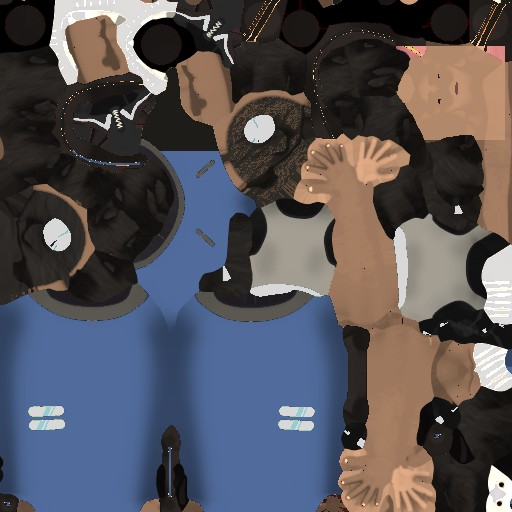
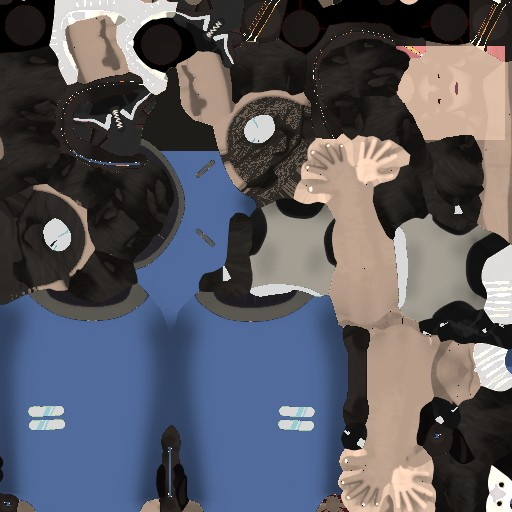
Male hero restyled (layered hair, paisley open shirt), real heights 160/178/175 cm, light skin for every character
Claude-Session: https://claude.ai/code/session_019W2sJmQtr8xcLscBKLvp9p

diff --git a/index.html b/index.html
@@ -1758,7 +1758,7 @@ class Avatar {
         o.castShadow = true; o.receiveShadow = true; o.frustumCulled = false;
         const nm = o.material && o.material.name, t = tint[nm];
         if (t !== undefined){ o.material = o.material.clone(); o.material.userData = {}; o.material.color.set(t); }
-        if (/Skin|Body/.test(nm)) skinPatch(o.material); else if (/Outfit|Headwear/.test(nm)) clothPatch(o.material, .6); else if (/Beard|Hair/.test(nm)) hairPatch(o.material);
+        if (/Skin|Body/.test(nm)){ skinPatch(o.material); if (nm !== 'Fem_Body') lightSkin(o.material); } else if (/Outfit|Headwear/.test(nm)) clothPatch(o.material, .6); else if (/Beard|Hair/.test(nm)) hairPatch(o.material);
       }
     });
     this.root.add(this.model);
@@ -1929,15 +1929,20 @@ function femHair(v, col){
   }
   return g;
 }
-function attachAtBind(model, boneRe, obj, at){   // place obj at a bind-pose model-space point, then parent it to the bone
-  let bone = null; model.traverse(o => { if (o.isBone && boneRe.test(o.name)) bone = o; }); if (!bone) return;
+function attachAtBind(model, boneRe, obj, at, useBind = true){   // place obj at a bind-pose model-space point (taken from the skin's inverse bind matrices), parented to the bone
+  let bone = null, sm = null, bi = -1; model.traverse(o => { if (o.isBone && boneRe.test(o.name)) bone = o; });
+  if (!bone) return;
+  if (useBind) model.traverse(o => { if (!sm && o.isSkinnedMesh){ const i = o.skeleton.bones.indexOf(bone); if (i >= 0){ sm = o; bi = i; } } });
   model.updateMatrixWorld(true);
-  const m = new THREE.Matrix4().copy(bone.matrixWorld).invert().multiply(model.matrixWorld).multiply(new THREE.Matrix4().makeTranslation(at.x, at.y, at.z));
+  const toModel = new THREE.Matrix4().copy(model.matrixWorld).invert(), bindBone = new THREE.Matrix4();
+  if (sm){ const meshInModel = new THREE.Matrix4().multiplyMatrices(toModel, sm.matrixWorld); bindBone.copy(sm.skeleton.boneInverses[bi]).invert().premultiply(meshInModel); }
+  else bindBone.multiplyMatrices(toModel, bone.matrixWorld);
+  const m = bindBone.invert().multiply(new THREE.Matrix4().makeTranslation(at.x, at.y, at.z));
   m.decompose(obj.position, obj.quaternion, obj.scale); bone.add(obj);
 }
 function femAvatar(k, v){
   const V = FEM_V[v] || FEM_V.mom, av = new Avatar(femSrc, femClips, {}); av.model.scale.multiplyScalar(k); av.k = k;
-  const C = c => new THREE.Color(c), U2 = { uTop:{ value:C(V.top) }, uInner:{ value:C(V.inner) }, uShorts:{ value:C(V.shorts) }, uSkinC:{ value:C(0xd6a383) } };
+  const C = c => new THREE.Color(c), U2 = { uTop:{ value:C(V.top) }, uInner:{ value:C(V.inner) }, uShorts:{ value:C(V.shorts) }, uSkinC:{ value:C(0xf5d3bb) } };
   av.model.traverse(o => {
     if (!o.isMesh) return;
     o.geometry = femGeom(o.geometry, V);
@@ -1961,13 +1966,106 @@ function femAvatar(k, v){
           else paint = false;
           if (paint) diffuseColor.rgb = col; }`); });
   });
-  attachAtBind(av.model, /Head$/, femHair(v, V.hair), new THREE.Vector3(0, 1.468, -.01));
+  attachAtBind(av.model, /Head$/, femHair(v, V.hair), new THREE.Vector3(0, 1.468, -.01), false);
   av.fem = true; return av;
+}
+/* light skin for the stock avatar: keep the texture's shading and the relative tint of lips/cheeks, move the tone */
+function lightSkin(m){
+  if (m.userData.light) return m; m.userData.light = true;
+  return patchMat(m, 'lightSkin', sh => { sh.fragmentShader = sh.fragmentShader.replace('#include <map_fragment>', `#include <map_fragment>
+    { vec3 c = diffuseColor.rgb, avg = vec3(0.42, 0.19, 0.168); float l = dot(c, vec3(0.3, 0.59, 0.11)), la = 0.256;
+      vec3 tint = pow(max(c/max(l, 1e-4), 1e-4)/(avg/la), vec3(0.7));
+      diffuseColor.rgb = min(vec3(0.76, 0.5, 0.38)*pow(max(l/la, 0.0), 0.65)*tint, vec3(1.0)); }`); });
+}
+/* the man: 178 cm, layered black hair with soft bangs, an open ivory short-sleeve shirt with a red paisley print over a white crew-neck tee,
+   indigo jeans, white trainers. Painted in the avatar's bind pose (metres), so the print and the sleeves stay put while it moves */
+function styleMale(av){
+  const k = 1.78/1.835; av.model.scale.multiplyScalar(k); av.k = k;
+  av.model.updateMatrixWorld(true);
+  const toModel = new THREE.Matrix4().copy(av.model.matrixWorld).invert(), skin = new THREE.Color(0xf3cfb6);
+  av.model.traverse(o => {
+    if (!o.isMesh) return; const nm = o.material.name;
+    if (nm === 'Wolf3D_Headwear' || nm === 'Wolf3D_Beard'){ o.visible = false; return; }
+    if (!/Outfit/.test(nm)) return;
+    const m = o.material = o.material.clone(); m.userData = {}; m.name = nm; m.map = null; m.color.set(0xffffff);
+    const U = { uBind:{ value:new THREE.Matrix4().multiplyMatrices(toModel, o.matrixWorld) }, uSkinM:{ value:skin } };
+    clothPatch(m, .55);
+    let body = '';
+    if (nm === 'Wolf3D_Outfit_Top'){ m.roughness = .82; m.normalMap = null; body = `
+      float ax = abs(p.x); bool front = p.z > 0.035;
+      if (p.y < 0.9) discard;
+      if (abs(p.x) < 0.065 && p.y > 1.49 && p.y < 1.6 && p.z > 0.068) discard;   // the stock bow tie
+      vec3 col = vec3(0.92, 0.87, 0.76);
+      vec2 uv = vec2(p.x + p.z*0.8, p.y)*26.0; vec2 id = floor(uv); float h = fract(sin(dot(id, vec2(12.9898, 78.233)))*43758.5453);
+      vec2 q = fract(uv) - 0.5 + (vec2(h, fract(h*7.13)) - 0.5)*0.25; float a = h*6.283; q = mat2(cos(a), -sin(a), sin(a), cos(a))*q;
+      float d = length(q*vec2(1.0, 1.5) + vec2(0.0, 0.25*q.x*q.x)) - 0.25;
+      float ring = smoothstep(0.06, 0.0, abs(d)), curl = smoothstep(0.035, 0.0, abs(length(q - vec2(0.06, 0.04)) - 0.08));
+      col = mix(col, vec3(0.72, 0.3, 0.34), max(ring*0.8, curl*0.55));
+      if (fract(h*31.7) > 0.6 && length(fract(uv*2.0) - 0.5) < 0.09) col = mix(col, vec3(0.5, 0.62, 0.7), 0.6);
+      if (ax > 0.262 && p.y < 1.42) col = uSkinM*0.8;
+      else if (ax > 0.248 && p.y < 1.45) col *= 0.82;
+      if (front && ax < 0.075 && p.y < 1.5) col = vec3(0.95, 0.94, 0.91);
+      if (front && abs(ax - 0.077) < 0.005 && p.y < 1.5) col *= 0.78;
+      if (p.y < 0.925) col *= 0.88;
+      diffuseColor.rgb = col;`; }
+    else if (nm === 'Wolf3D_Outfit_Bottom'){ m.roughness = .9; body = `
+      vec3 col = vec3(0.16, 0.22, 0.34)*(0.9 + 0.12*fract(sin(dot(floor(p.xy*350.0), vec2(12.9898, 78.233)))*43758.5));
+      float sx = abs(abs(p.x) - 0.1) - 0.06; if (abs(sx) < 0.003 && p.y < 0.95) col *= 1.35;
+      if (p.y < 0.13) col *= 0.82;
+      diffuseColor.rgb = col;`; }
+    else if (nm === 'Wolf3D_Outfit_Footwear'){ m.roughness = .65; body = `
+      diffuseColor.rgb = p.y < 0.025 ? vec3(0.55) : vec3(0.93, 0.93, 0.91);`; }
+    patchMat(m, 'male_' + nm + '_' + o.id, sh => { Object.assign(sh.uniforms, U);
+      sh.vertexShader = sh.vertexShader.replace('#include <common>', '#include <common>\nvarying vec3 vB; uniform mat4 uBind;').replace('#include <begin_vertex>', `#include <begin_vertex>
+        vB = (uBind*vec4(position, 1.0)).xyz;
+        ${nm === 'Wolf3D_Outfit_Top' ? `{ // slim the bare forearm (the stock sleeve is a thick coat sleeve) toward the elbow-wrist line
+          vec3 s = vec3(sign(vB.x), 1.0, 1.0), E = vec3(0.31, 1.258, -0.06)*s, W = vec3(0.45, 1.069, 0.031)*s, d = W - E;
+          float t = clamp(dot(vB - E, d)/dot(d, d), 0.0, 1.2), f = smoothstep(0.262, 0.3, abs(vB.x));
+          vec3 c = E + d*t, nb = c + (vB - c)*mix(1.0, 0.62, f);
+          transformed = (inverse(uBind)*vec4(nb, 1.0)).xyz; }` : ''}`);
+      sh.fragmentShader = sh.fragmentShader.replace('#include <common>', '#include <common>\nvarying vec3 vB; uniform vec3 uSkinM;').replace('#include <map_fragment>', `#include <map_fragment>
+        { vec3 p = vB; ${body} }`); });
+  });
+  attachAtBind(av.model, /Head$/, maleHair(), new THREE.Vector3(0, 1.735, .018));
+  return av;
+}
+let hairTexC = null;
+function hairTex(){   // dark strands with soft highlights running crown → tips (sphere u = around, v = down)
+  return hairTexC || (hairTexC = canvasTex(256, 128, g => { g.fillStyle = '#1a1512'; g.fillRect(0, 0, 256, 128);
+    for (let i = 0; i < 900; i++){ const x = Math.random()*256, w = .6 + Math.random()*1.4, l = .35 + Math.random()*.6; g.strokeStyle = `rgba(${90 + Math.random()*50},${75 + Math.random()*40},${62 + Math.random()*30},${.08 + Math.random()*.22})`; g.lineWidth = w; g.beginPath(); g.moveTo(x, 0); g.quadraticCurveTo(x + (Math.random() - .5)*8, 64, x + (Math.random() - .5)*10, 128*l); g.stroke(); }
+    for (let i = 0; i < 300; i++){ const x = Math.random()*256; g.strokeStyle = 'rgba(0,0,0,.35)'; g.lineWidth = 1; g.beginPath(); g.moveTo(x, Math.random()*30); g.lineTo(x + (Math.random() - .5)*6, 128); g.stroke(); } }));
+}
+function maleHair(){
+  const t = hairTex(); t.wrapS = THREE.RepeatWrapping;
+  const hm = new THREE.MeshStandardMaterial({ color:0xffffff, map:t, roughness:.45, metalness:0, side:THREE.DoubleSide }), g = new THREE.Group();
+  const add = (geo, f) => { const m = new THREE.Mesh(geo, hm); f && f(m); m.castShadow = true; g.add(m); return m; };
+  const R = .108, rnd = (i, k) => { const v = Math.sin(i*12.9898 + k*78.233)*43758.5453; return v - Math.floor(v); };
+  add(new THREE.SphereGeometry(R, 36, 14, 0, Math.PI*2, 0, Math.PI*.4), m => { m.scale.set(.97, 1.06, 1.07); m.position.y = .004; });   // crown with a little lift
+  /* tapered locks on the head sphere: from near the crown down to a pointed tip, slightly lifted off the scalp toward the tip */
+  const lock = (r, ph, w, t0, t1, lift) => {
+    const S = 7, pos = [], idx = [];
+    for (let j = 0; j <= S; j++){
+      const u = j/S, th = t0 + (t1 - t0)*u, ww = w*(1 - Math.pow(u, 2.2))*.5 + .0005, rr = r + lift*u*u;
+      for (const sd of [-1, 1]){ const p = ph + sd*ww/Math.max(Math.sin(th), .2); pos.push(-rr*Math.cos(p)*Math.sin(th), rr*Math.cos(th), rr*Math.sin(p)*Math.sin(th)); }
+      if (j < S){ const k = j*2; idx.push(k, k + 2, k + 1, k + 1, k + 2, k + 3); }
+    }
+    const gg = new THREE.BufferGeometry(); gg.setAttribute('position', new THREE.Float32BufferAttribute(pos, 3)); gg.setIndex(idx); gg.computeVertexNormals();
+    const uv = []; for (let j = 0; j <= S; j++) uv.push(rnd(ph*100, j) , j/S, rnd(ph*100, j) + .02, j/S); gg.setAttribute('uv', new THREE.Float32BufferAttribute(uv, 2));
+    return gg;
+  };
+  const N = 64;
+  for (let i = 0; i < N; i++){
+    const ph = (i + .6*rnd(i, 1))/N*Math.PI*2, front = Math.max(0, Math.sin(ph)), side = Math.abs(Math.cos(ph)), back = Math.max(0, -Math.sin(ph));
+    const end = front > .62 ? .4 + .065*rnd(i, 2) : .5 + .1*side + .2*back + .07*rnd(i, 3) - .06*front;
+    const g2 = lock(R + .003 + .004*rnd(i, 4), ph, Math.PI*2/N*2.4*(1.05 - .25*front), Math.PI*(.06 + .1*rnd(i, 5)), Math.PI*end, .004 + .005*side*(1 - front));
+    add(g2, m => m.scale.set(.99, 1, 1.07));
+  }
+  return g;
 }
 let HERO_G = 'f'; try { HERO_G = localStorage.getItem('damteoHero') === 'm' ? 'm' : 'f'; } catch (e){}
 function makeHero(g){
-  if (g === 'f' && femSrc) return femAvatar(.97, 'mom');
-  return styleCasual(new Avatar(avatarSrc, avatarClips, {}), { top:0x5b6650, plainTop:true, trim:.93, bottom:0x3a4d6d, shoes:0xe6e6e2, hair:0x1a1410 });
+  if (g === 'f' && femSrc) return femAvatar(1.01, 'mom');   // 160 cm
+  return styleMale(new Avatar(avatarSrc, avatarClips, {}));
 }
 /* the hero picker works from the first moment the intro is shown, also while the scene is still loading */
 function bindHeroPick(){
@@ -5380,7 +5478,7 @@ function chiefStyle(av){
   av.model.traverse(o => {
     if (!o.isMesh) return; const nm = o.material.name;
     if (nm === 'Wolf3D_Headwear' || nm === 'Wolf3D_Beard'){ o.visible = false; return; }
-    if (nm === 'Wolf3D_Body'){ o.material = o.material.clone(); o.material.userData = {}; skinPatch(o.material); }
+    if (nm === 'Wolf3D_Body'){ o.material = o.material.clone(); o.material.userData = {}; skinPatch(o.material); lightSkin(o.material); }
     const m = o.material;
     if (nm === 'Wolf3D_Outfit_Top'){ m.map = null; m.color.set(0x2f6f95);
       patchMat(m, 'chiefTop', sh => { restV(sh); sh.fragmentShader = sh.fragmentShader.replace('#include <map_fragment>', `#include <map_fragment>
@@ -5406,6 +5504,7 @@ function chiefBuild(){
   const root = new THREE.Group();
   if (avatarSrc){
     const av = new Avatar(avatarSrc, avatarClips, { Wolf3D_Outfit_Top:0x2c6c90, Wolf3D_Outfit_Bottom:0x18191b, Wolf3D_Outfit_Footwear:0x23484e, Wolf3D_Headwear:0x1c2230 });
+    av.model.scale.multiplyScalar(1.75/1.835); av.k = 1.75/1.835;   // 175 cm
     av.mixer.update(1.3); root.add(av.root); CHIEF.av = av;
     chiefStyle(av);
   } else {
@@ -5633,7 +5732,7 @@ const FRIEND_DEF = [{ name:'아윤', v:'ayun' }, { name:'하윤', v:'hayun' }];
 function makeTeen(d){
   const V = FEM_V[d.v];
   if (!avatarSrc){ const h = new Hiker({ jacket:V.top, pants:V.shorts, cap:V.hair }); h.root.scale.setScalar(.92); shadowAll(h.root, true, false); return h; }
-  if (femSrc) return femAvatar(.94, d.v);
+  if (femSrc) return femAvatar(.975, d.v);
   const av = styleCasual(new Avatar(avatarSrc, avatarClips, {}), { top:V.top, plainTop:true, trim:.95, bottom:V.shorts, shoes:0xf4f4f2, hair:V.hair });
   av.model.scale.multiplyScalar(.9); av.k = .9; return av;
 }
@@ -6940,7 +7039,7 @@ async function boot(){
   window.__camp = {
     freeze:()=>renderer.setAnimationLoop(null), resume:()=>{ clock.getDelta(); renderer.setAnimationLoop(loop); },
     step:(n=1,dt=1/30)=>{ for(let i=0;i<n;i++){ simT+=dt; tick(dt, simT); } return renderer.info.render.triangles; },
-    setView, setHour, teleport, setHero, player, getHero:()=>hero, femAvatar, sceneAdd:o=>scene.add(o), groundAt, applySeason, look:(y,p)=>{ camYaw=y; camPitch=p; }, start:()=>btn.click(),
+    setView, setHour, teleport, setHero, player, getHero:()=>hero, femAvatar, makeHero, chiefRoot:()=>CHIEF.root, sceneAdd:o=>scene.add(o), groundAt, applySeason, look:(y,p)=>{ camYaw=y; camPitch=p; }, start:()=>btn.click(),
     evac:(v)=>{ evacGroup.visible = v; },
     topView:(cx=-2, cz=-5, h=330, fov=48)=>{ view='air'; orbit.enabled=false; camera.fov=fov; camera.updateProjectionMatrix(); camera.up.set(-1,0,0); camera.position.set(cx, h, cz); camera.lookAt(cx, 0, cz); },
     resetFov:()=>{ camera.fov=62; camera.updateProjectionMatrix(); camera.up.set(0,1,0); },

diff --git a/README.md b/README.md
@@ -11,7 +11,7 @@
   - **모닥불**: 빨간 벽돌 위에 화로를 놓고 장작에 불을 붙이고(불꽃·불티·연기·타닥 소리·주변 조명), 물을 부어 끕니다
   - **고기 굽기**: 모닥불을 피운 화로의 석쇠에 삼겹살·목살·소시지·새송이·잡은 물고기를 올려 면마다 익는 정도를 보고 뒤집고 집습니다(완벽/덜 익음/탐 판정, 지글 소리·연기)
   - **계곡 고기잡이**: 찌낚시(힘 조절 던지기 → 입질에 챔질 → 줄 장력을 지키며 릴 감기)와 족대질(어망 놓기 → 돌 밟아 몰면 물고기 그림자가 족대로 몰려듦 → 들어 올리면 족대 안에서 파닥이는 물고기를 가까이서 확인). 피라미·갈겨니·버들치·쉬리·꺽지·동사리·메기·다슬기가 잡히고 아이스박스에 담겨 구워 먹을 수 있어요 (겨울엔 계곡이 얼어 불가)
-  - **우리 가족 캐릭터**: 시작 화면에서 주인공을 고를 수 있어요 — 30대 여성(갈색 단발·선글라스·분홍 티셔츠·베이지 반바지, 기본) 또는 30대 남성(짧은 머리·캐주얼 재킷·청바지). 텐트를 치면 10대 딸 **아윤**(하늘색 줄무늬 셔츠·도트 캐미솔·청반바지·포니테일)과 **하윤**(하늘색 니트 가디건·흰 반바지·묶은 머리)이 테이블 의자에 앉아 있어요
+  - **우리 가족 캐릭터**: 시작 화면에서 주인공을 고를 수 있어요 — 30대 여성(갈색 단발·선글라스·분홍 티셔츠·베이지 반바지, 기본) 또는 30대 남성(178cm, 앞머리가 있는 레이어드 흑발, 빨간 페이즐리 무늬 아이보리 반팔 셔츠를 흰 티셔츠 위에 열어 입고 청바지). 키는 여성 160cm·남성 178cm·캠장님 175cm 비율이고, 모든 캐릭터 피부톤은 밝게 맞췄어요. 텐트를 치면 10대 딸 **아윤**(하늘색 줄무늬 셔츠·도트 캐미솔·청반바지·포니테일)과 **하윤**(하늘색 니트 가디건·흰 반바지·묶은 머리)이 테이블 의자에 앉아 있어요
   - **튜브 물놀이**: 계곡에서 줄무늬 튜브에 앉아 이동키로 저어 다니고, 물살을 따라 천천히 떠내려가요
   - **밤 별 관측**: 체험 중에도 밤이면 망원경 앞에서 달·토성을 볼 수 있어요
   - **할리갈리**: 테이블 의자에 앉으면 딸 아윤·하윤과 3인 할리갈리가 테이블 위에서 진행됩니다. 56장(과일별 1×5·2×3·3×3·4×2·5×1), 차례로 뒤집다 같은 과일이 정확히 5개면 종을 먼저 친 사람이 바닥 카드를 모두 가져가고, 잘못 치면 한 장씩 벌칙. 친구들은 사람처럼 들쭉날쭉한 반응 속도로 종을 치고 가끔 헛손질도 해요
